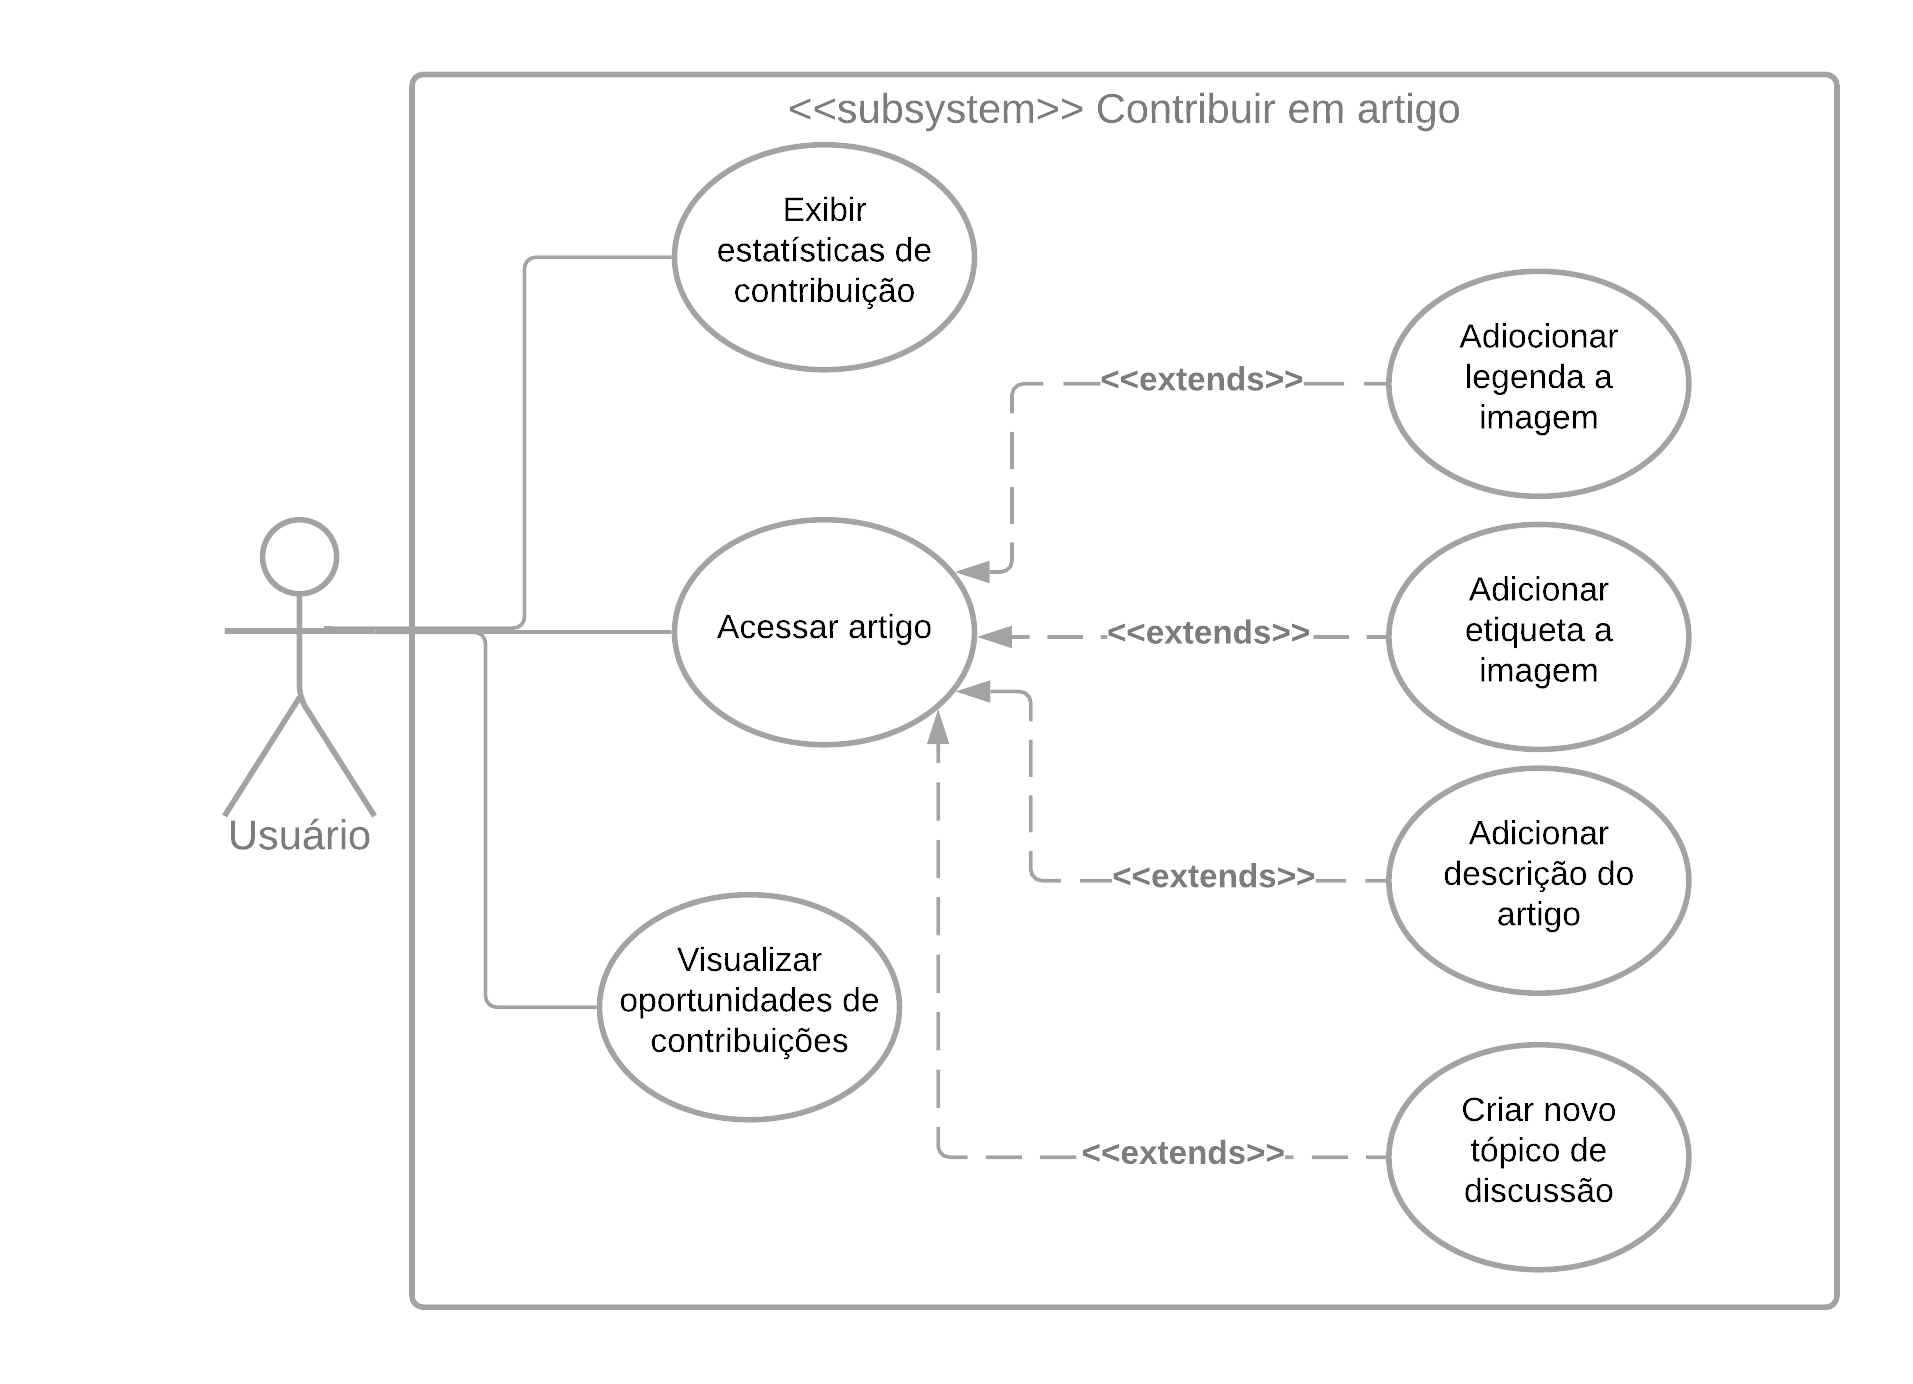
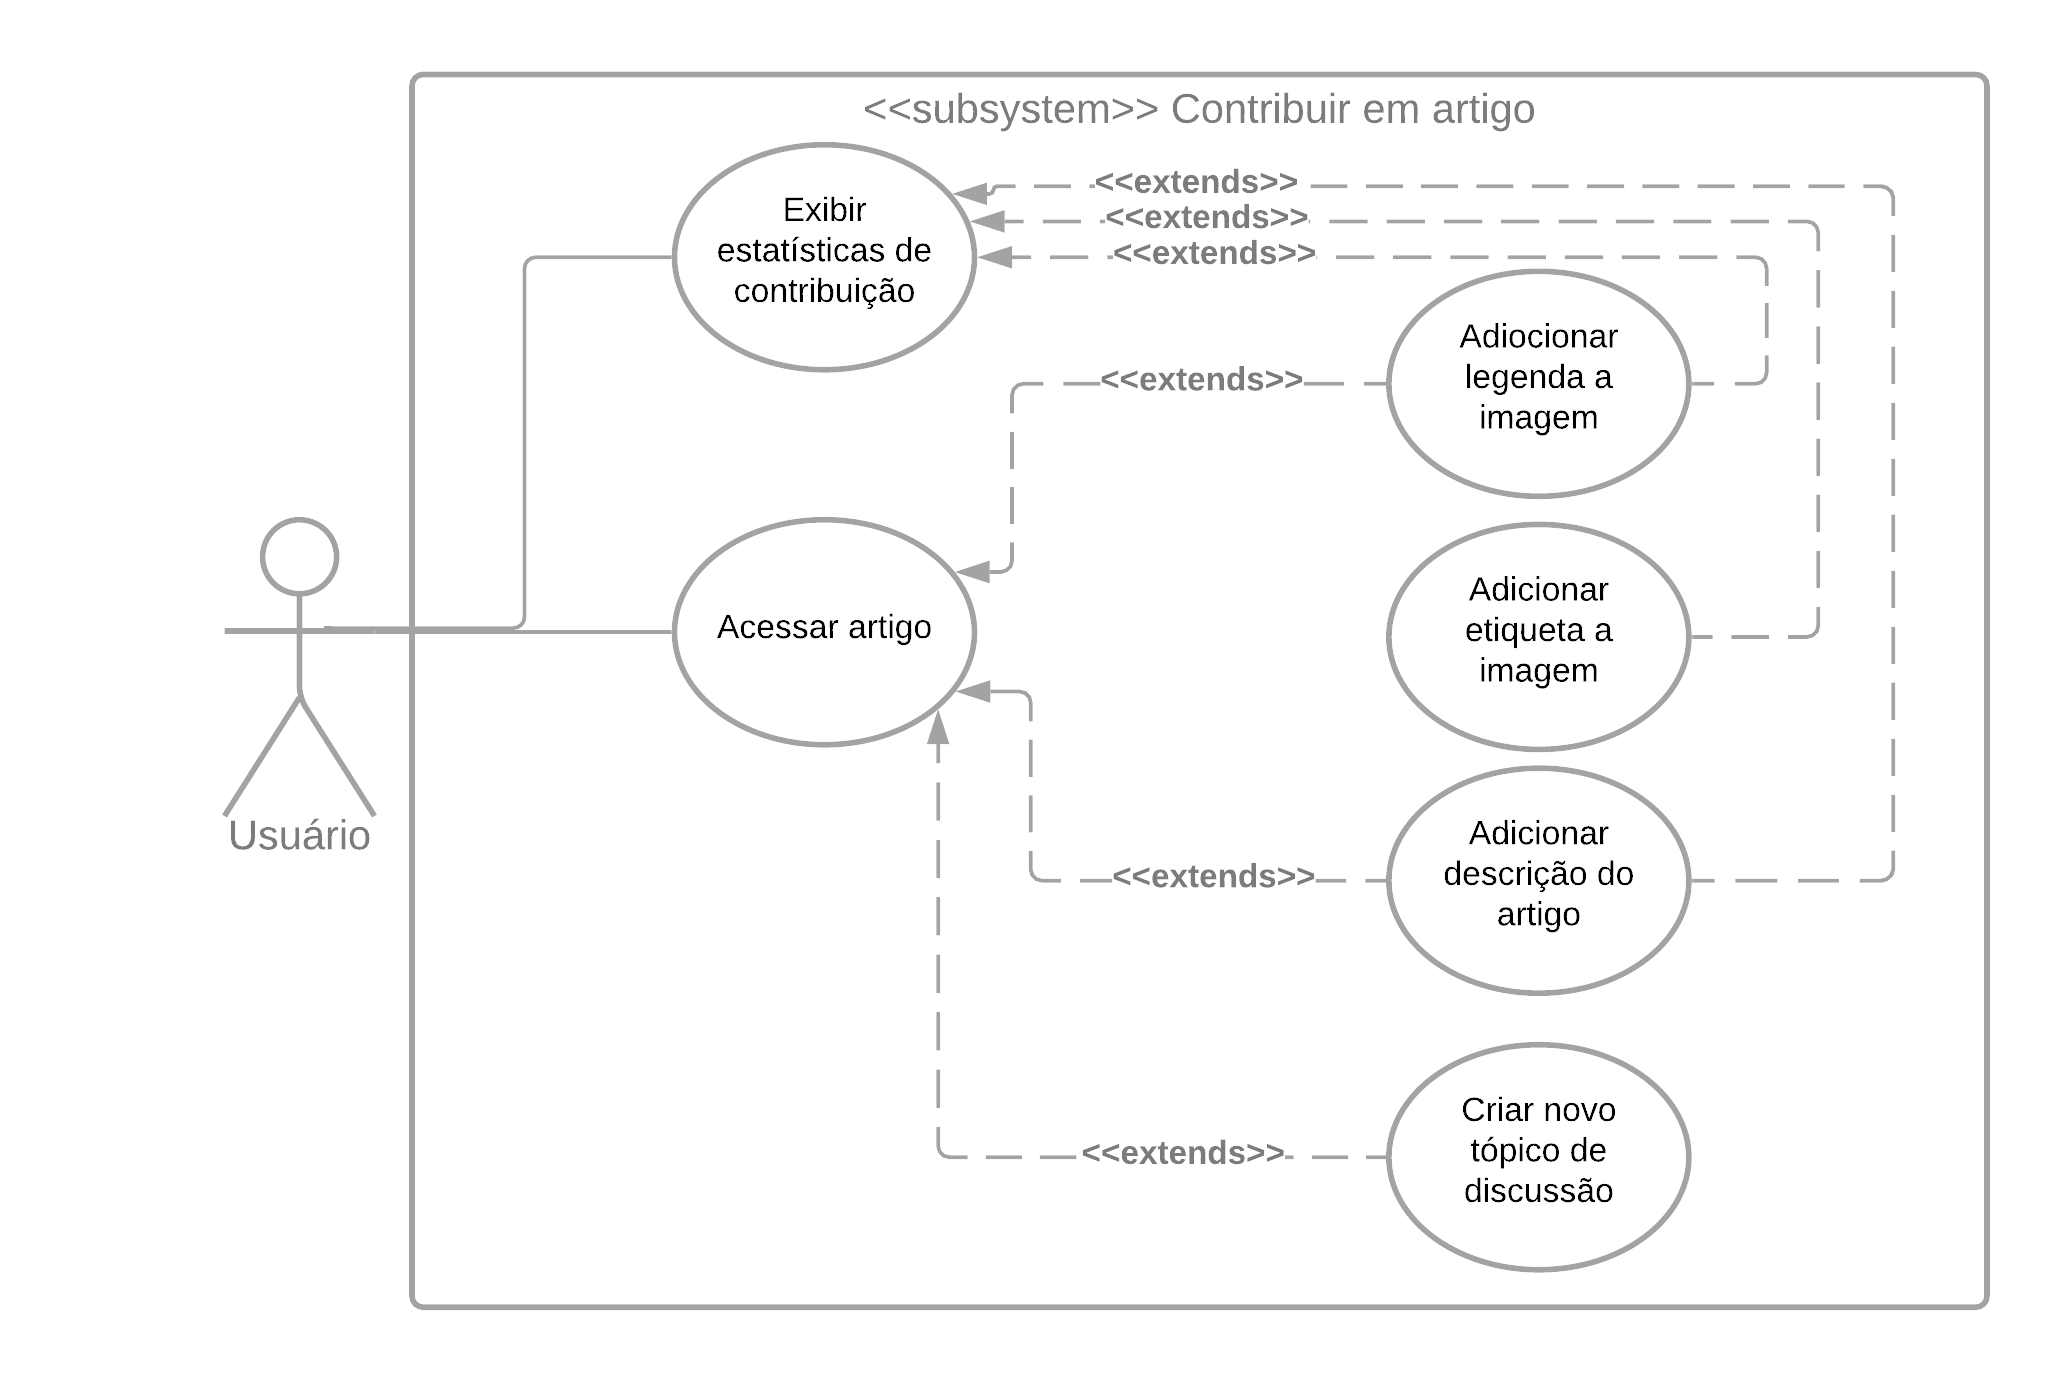
Adição parcial dos resultados com caso de uso

diff --git a/_doc/modelagem/casosdeuso.md b/_doc/modelagem/casosdeuso.md
@@ -40,6 +40,55 @@ sections:
 </a>
 </div>
 
+### Especificação:
+
+* **Ator(es):**
+    * Usuário.
+    <br><br>
+* **Pré-condição:**
+    * O ator deve estar com aplicativo aberto.
+    <br><br>
+* **Fluxo de evento principal: (Acessar artigo)**
+    1. O ator acessa um artigo.
+    2. O sistema apresenta opções de contribuições na página.
+    <br><br>
+* **Fluxo de evento alternativo: (Acessar artigo)**
+    1. O ator acessa um artigo.
+    2. O sistema apresenta opções de contribuições na página.
+        1. O ator clica em "ADICIONAR TÍTULO DE DESCRIÇÂO".
+        2. O ator clica em uma imagem.
+            1. O ator clica em "ADICIONAR LEGENDA À IMAGEM".
+    3. O ator digita o conteúdo a ser adicionado.
+    4. A contribuição e adicionada ao artigo.
+    <br><br>
+* **Fluxo de exceção (Acessar artigo)**
+    1. O ator acessa um artigo.
+    2. O sistema apresenta opções de contribuições na página.
+    3. O ator clica em "ADICIONAR TÍTULO DE DESCRIÇÂO".
+    4. O sistema apresenta uma mensagem informando que o artigo é protegido. Saiba mais [aqui](https://pt.wikipedia.org/wiki/Wikip%C3%A9dia:P%C3%A1gina_protegida).
+    <br><br>
+* **Fluxo de evento principal: (Exibir estatísticas de contribuição)**
+    1. O ator clica no ícone descrito "Edições".
+        1. O sistema apresenta ao ator uma mensagem de como ator pode ajudar a contribuir com o aplicativo.
+        2. O sistema apresenta ao ator estatísticas de suas contribuições.
+    <br><br>
+* **Fluxo de evento alternativo: (Exibir estatísticas de contribuição)**
+    1. O ator clica no ícone descrito "Edições".
+        1. O sistema apresenta ao ator uma mensagem de como ator pode ajudar a contribuir com o aplicativo.
+        2. O sistema apresenta ao ator estatísticas de suas contribuições.
+    2. O ator seleciona uma forma de contribuir.
+        1. O ator seleciona contribuir adicionando legendas as imagens.
+        2. O ator seleciona contribuir adicionando etiquetas as imagens.
+        3. O ator seleciona contribuir adicionando descrição aos artigos.
+    3. O sistema apresenta um slide de artigos/imagens.
+    4. O ator clica no botão "ADICIONAR [DESCRIÇÃO/LEGENDA/ETIQUETA]"
+    5. O ator digita o conteúdo a ser adicionado.
+    6. A contribuição e adicionada ao artigo.
+    <br><br>
+* **Pós-condição:**
+    O ator adiciona sua contribuição aos artigos do aplicativo.
+    <br><br>
+
 ## Caso de uso 4: Realizar login {#caso-de-uso-4}
 
 <div class="screenshot-holder" style="display: flex; justify-content: center;">
@@ -59,3 +108,45 @@ sections:
 <a class="mask" href="assets/images/casosdeuso/Salvar_artigo.png" data-title="Caso de uso salvar artigo" data-toggle="lightbox"><i class="icon fa fa-search-plus"></i>
 </a>
 </div>
+
+### Especificação:
+
+* **Ator(es):**
+    * Usuário.
+    <br><br>
+* **Pré-condição:**
+    * O ator deve estar visualisando um artigo.
+    <br><br>
+* **Fluxo de evento principal: (salvar artigo)**
+    1. O ator clica no ícone descrito "salvar".
+    2. O artigo e salvo na lista padrão (salvo).
+    <br><br>
+* **Fluxo de evento alternativo: (salvar artigo)**
+    1. O ator clica no ícone descrito "salvar".
+        1. O ator clica em "ADICIONAR À LISTA".
+            1. O ator seleciona a lista no qual será salva o artigo.
+            2. O ator clica no ícone descrito "Criar nova".
+                1. O ator digita o nome da nova lista.
+                2. O ator digita a decrição (opcional) da nova lista.
+        2. O ator clica em "Adicionar a outra lista de leitura".
+    4. O artigo e salvo na lista escolhida pelo usuário.
+    <br><br>
+* **Fluxo de evento principal: (remover da lista)**
+    1. O ator clica no ícone descrito "salvar" em um artigo já salvo em uma lista.
+        1. O ator clica em "Remover de [nome da lista]".
+        2. O ator clica em "Remover das listas de leitura"
+            1. O ator escolhe de quais listas será removido o artigo.
+    3. O artigo e removido das listas escolhidas pelo usuário.
+    <br><br>
+* **Fluxo de evento principal: (mover para outra lista)**
+    1. O ator clica no ícone descrito "salvar" em um artigo já salvo.
+    2. O ator clica em "Mover de [nome da lista] para outra lista de leitura".
+        1. O ator seleciona a lista no qual será salva o artigo.
+        2. O ator clica no ícone descrito "Criar nova".
+            1. O ator digita o nome da nova lista.
+            2. O ator digita a decrição (opcional) da nova lista.
+    3. O artigo e movida para a lista escolhida pelo usuário.
+    <br><br>
+* **Pós-condição:**
+    O artigo será salvo/movido/removido de uma lista que foi selicionada pelo usuário.
+    <br><br>

diff --git a/_doc/modelagem/versionamento.md b/_doc/modelagem/versionamento.md
@@ -16,6 +16,7 @@ sections:
 {: .table .table-striped .table-bordered}
 | Versão | Data | Modificação | Autor(es) |
 |--|--|--|--|
-| 1.0 | 19/03/2021 | Criação da página e dos léxicos | Matheus Gabriel e Rodolpho |
+| 1.0 | 19/03/2021 | Criação da página e dos léxicos | Matheus Gabriel e Roberto |
+| 1.1 | 20/03/2021 | Adição parcial dos resultados de caso de uso | Igor Queiroz |
 
 </div>

diff --git a/_doc/modelagem.md b/_doc/modelagem.md
@@ -1,10 +1,10 @@
 ---
 title: Modelagem
-excerpt: Apresenta cenários, léxicos e casos de usos.
-date: 2021-03-03
+excerpt: Apresenta os cenários, léxicos, casos de usos e especificação suplementar do projeto.
+date: 2021-03-20
 icon:
   name: icon_puzzle_alt
-color: green
+color: purple
 sections:
   - /modelagem/lexico
   - /modelagem/casosdeuso
